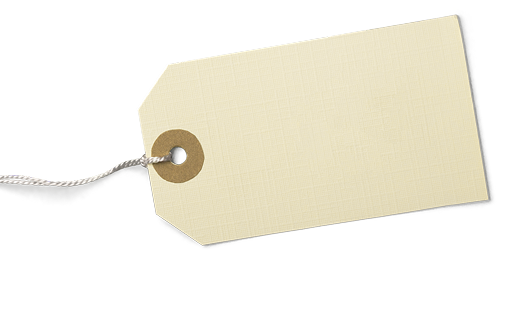
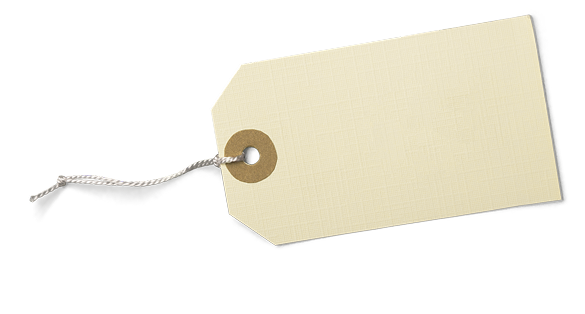
ajustes finales corcho

Changed region(s): [[0.0, 0.0287, 0.9688, 0.8025]]

diff --git a/bookly/resources/css/app.css b/bookly/resources/css/app.css
@@ -184,6 +184,7 @@ body {
 /* Estilos para el corcho */
 .corcho-container {
     margin-top: 5%;
+    margin-left: 5%;
     width: 40%;
     height: auto;
     background-image: url('/public/img/perfil/corcho.png');
@@ -210,7 +211,7 @@ body {
     width: 450px;
     height: 250px;
     margin-top: -15%;
-    margin-left: -5%;
+    margin-left: -7%;
 }
 
 .welcome-banner h2 {
@@ -291,6 +292,8 @@ body {
     width: 80%;
     text-align: center;
 }
+
+
 /* Estilos para la libreta */
 .notebook-container {
     background-image: url('/public/img/perfil/libreta.png');
@@ -298,39 +301,13 @@ body {
     background-repeat: no-repeat;
     min-height: 80vh;
     position: relative;
-    padding: 8% 12% 8% 15%; /* Más padding a la izquierda para simular margen de libreta */
+    padding: 5% 8% 5% 12%; 
 }
 
 .notebook-content {
     height: 100%;
     display: flex;
     flex-direction: column;
-}
-
-/* Estilos para el contenido */
-.profile-section, .challenge-section, 
-.search-section, .menu-section {
-    background-color: rgba(255, 255, 255, 0.7); /* Fondo semitransparente */
-    padding: 15px;
-    border-radius: 5px;
-    margin-bottom: 15px;
-}
-
-.menu-section ul {
-    list-style: none;
-    padding: 0;
-}
-
-.menu-section li {
-    margin-bottom: 10px;
-    padding: 8px;
-    background-color: rgba(255, 255, 255, 0.5);
-    border-radius: 3px;
-    transition: transform 0.3s;
-}
-
-.menu-section li:hover {
-    transform: scale(1.02);
 }
 
 /* Responsive */
@@ -349,9 +326,3 @@ body {
     }
 }
 
-.reto_anual{
-    background-image: url('/public/img/perfil/papel.png');
-    background-size: contain;
-    background-repeat: no-repeat;
-    position: relative;
-}

diff --git a/bookly/resources/views/profile/show.blade.php b/bookly/resources/views/profile/show.blade.php
@@ -1,6 +1,6 @@
 @extends('layouts.app')
 @section('content')
-<div class="container-fluid">
+<div class="container-fluid" style="overflow: hidden;">
     <div class="row g-0">
         <!-- Columna Corcho -->
         <!-- Columna Corcho -->
@@ -55,6 +55,7 @@
         <div class="col-md-6 notebook-container">
             <div class="notebook-content"> <!-- Contenedor para elementos dentro de la libreta -->
                 <div class="search-section">
+                    <x-input-label for="basic-book-search" value="Buscar libros" class="text-lg font-bold mb-2" />
                     <input type="text" id="basic-book-search" placeholder="Buscar libros..." class="w-full p-2 border rounded">
                     <div id="basic-results" class="mt-2 hidden"></div>
                 </div>
